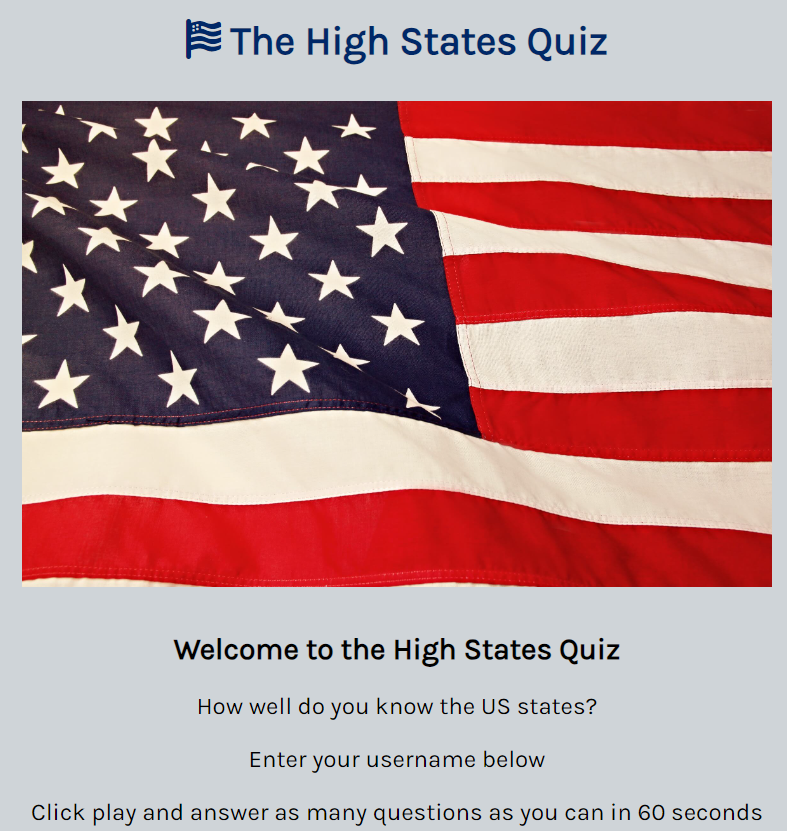
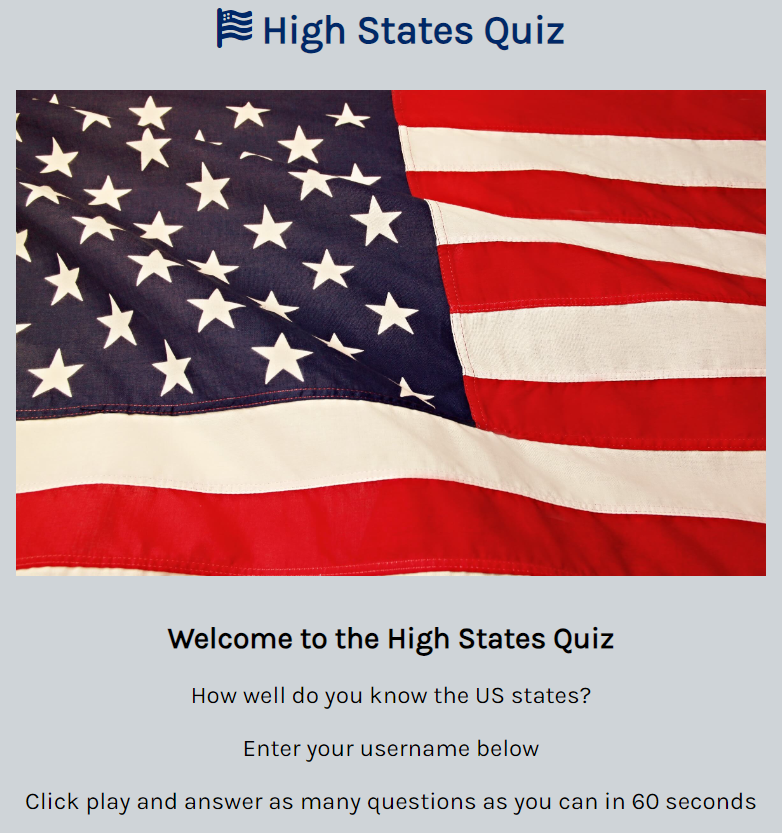
Update features section in README file

Changed region(s): [[0.0, 0.0, 0.9821, 0.722], [0.0307, 0.7521, 0.9821, 0.9928]]

diff --git a/index.html b/index.html
@@ -7,14 +7,14 @@
     <link rel="stylesheet" href="assets/css/style.css">
     <meta name="description" content="Quiz US Game United states">
     <meta name="author" content="Eric Blake">
-    <title>The High States Quiz</title>
+    <title>High States Quiz</title>
 </head>
 
 <body>
  <!-- Header and logo -->
 <header>
     <a href="index.html">
-        <h1 id="logo"> <i class="fa-solid fa-flag-usa"></i> The High States Quiz</h1>
+        <h1 id="logo"> <i class="fa-solid fa-flag-usa"></i> High States Quiz</h1>
     </a>
 </header>
 

diff --git a/README.md b/README.md
@@ -22,9 +22,9 @@ The high states game is a quiz based game that tests the users knowledge of the 
 
 ### Wireframe
 * The wireframe was created using Mockflow.
-  <img src="assets/documentation/high-states-quiz-wireframe-home-page.PNG" alt="Screenshot of Wireframe home page">
-
-
+ <img src="assets/documentation/high-states-quiz-wireframe-home-page.PNG" alt="Screenshot of Wireframe home page">
+ <img src="assets/documentation/high-states-quiz-wireframe-quiz-page.PNG" alt="Screenshot of Wireframe quiz page">
+ <img src="assets/documentation/high-states-quiz-wireframe-game-over.PNG" alt="Screenshot of Wireframe game over modal">
 ## Features
 
 ### The welcome page:
